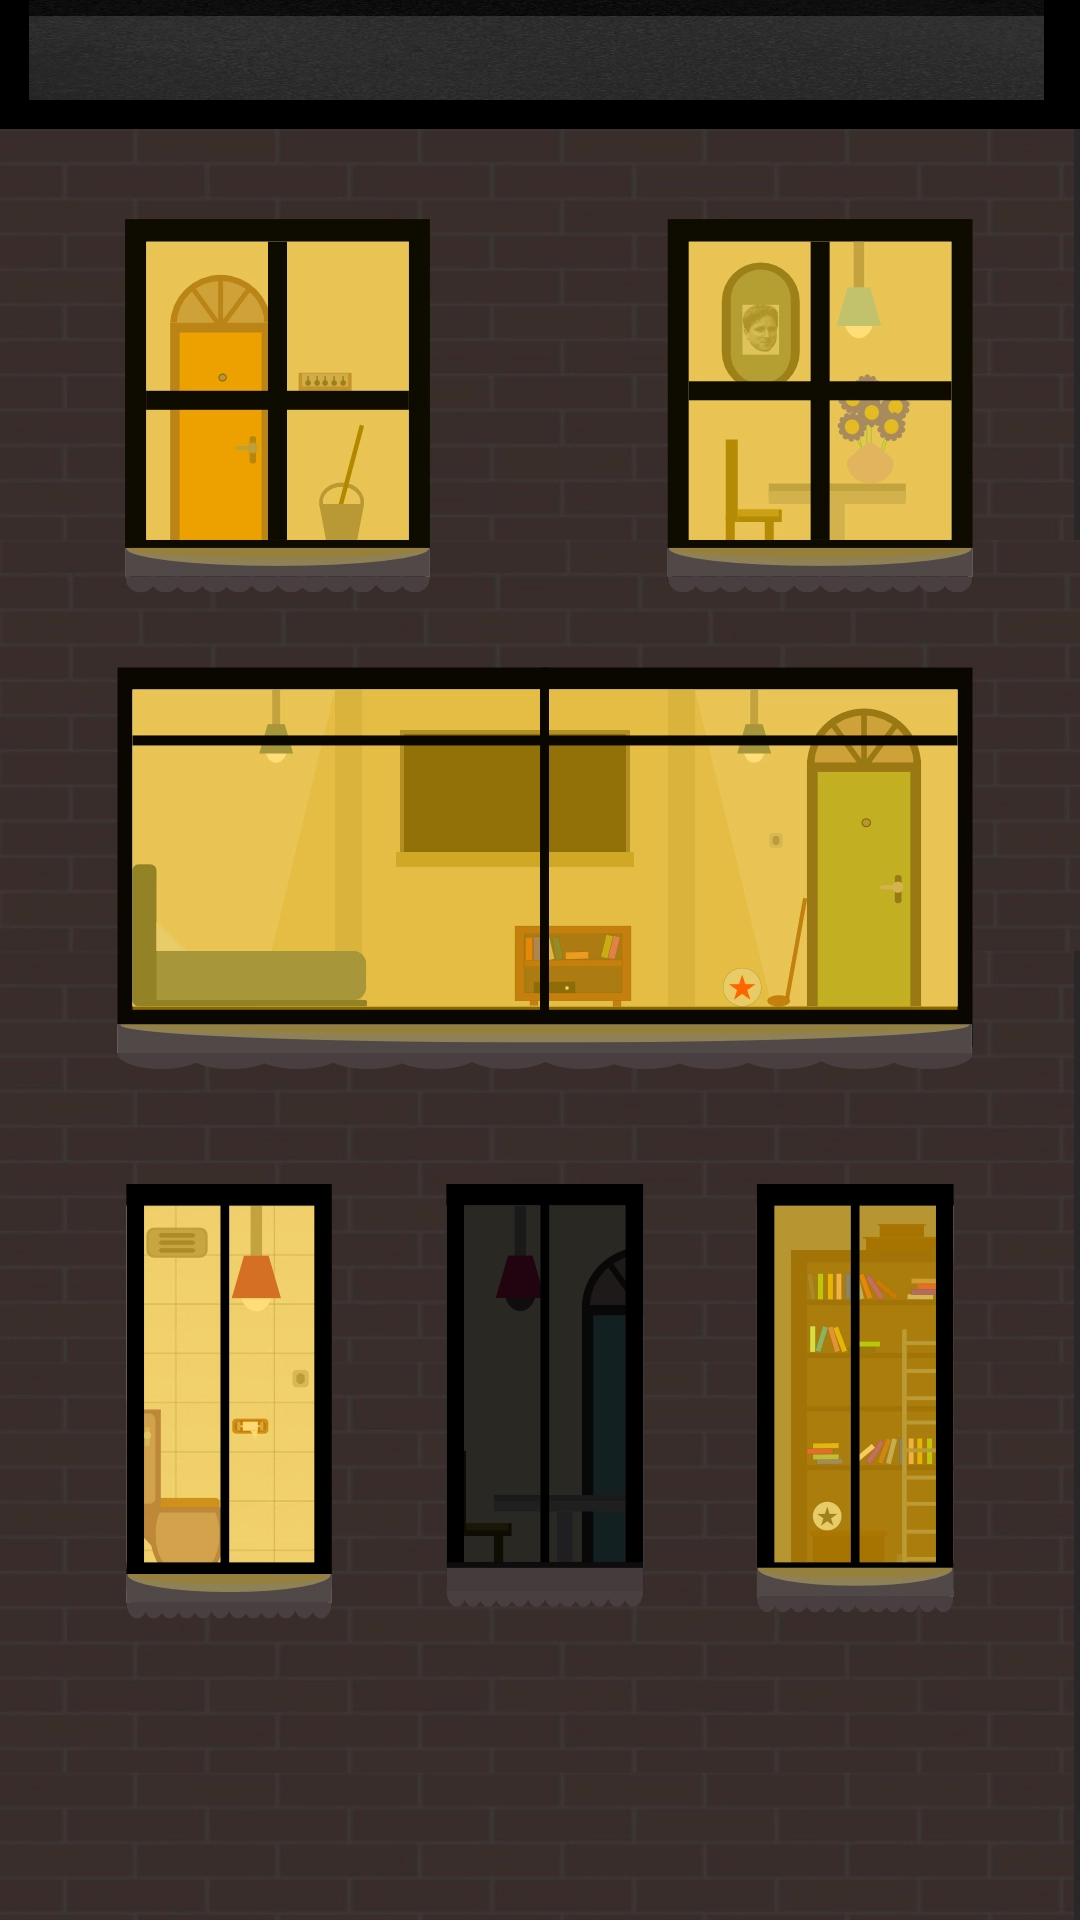
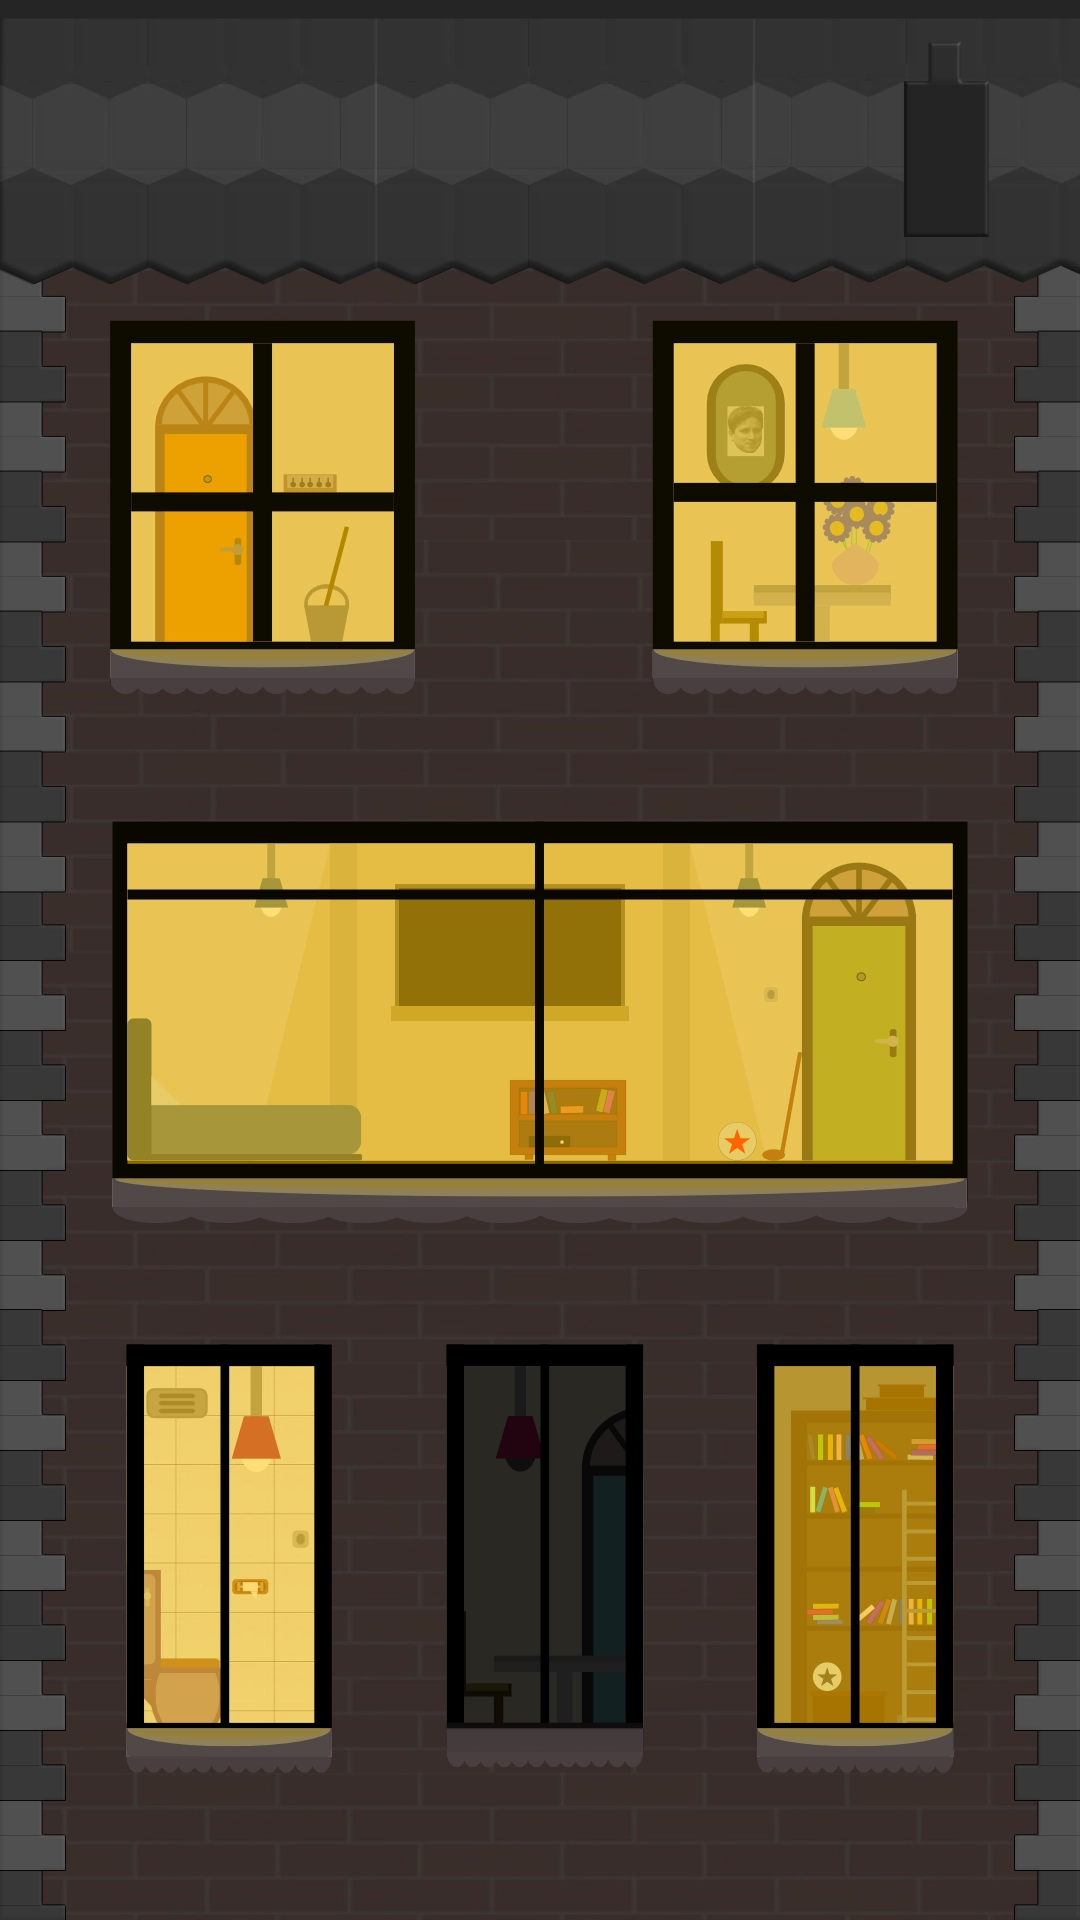
Added: New building images for game loop. 7 in total for the array.

diff --git a/assets/js/scenes/game.js b/assets/js/scenes/game.js
@@ -20,7 +20,14 @@ export default class game extends Phaser.Scene {
 
         // Loads the city building platforms
         this.load.image('building1', 'assets/images/game-assets/city-building1.webp');
+        this.load.image('building2', 'assets/images/game-assets/city-building2.webp');
+        this.load.image('building3', 'assets/images/game-assets/city-building3.webp');
+        this.load.image('building4', 'assets/images/game-assets/city-building4.webp');
+        this.load.image('building5', 'assets/images/game-assets/city-building5.webp');
+        this.load.image('building6', 'assets/images/game-assets/city-building6.webp');
+        this.load.image('building7', 'assets/images/game-assets/city-building7.webp');
 
+        // Loads the alien ship
         this.load.image('alienship', 'assets/images/game-assets/alienship.webp')
 
         // Loads the player character
@@ -66,7 +73,7 @@ export default class game extends Phaser.Scene {
         alienShip.setDepth(1);
 
         // Creates an array of building platform images
-        const platformImages = ['building1']; // Array for easy implementation of new images
+        const platformImages = ['building1','building2','building3','building4','building5','building6', 'building7']; // Array for easy implementation of new images
 
         // Creates the platforms group
         const platforms = this.physics.add.group({
